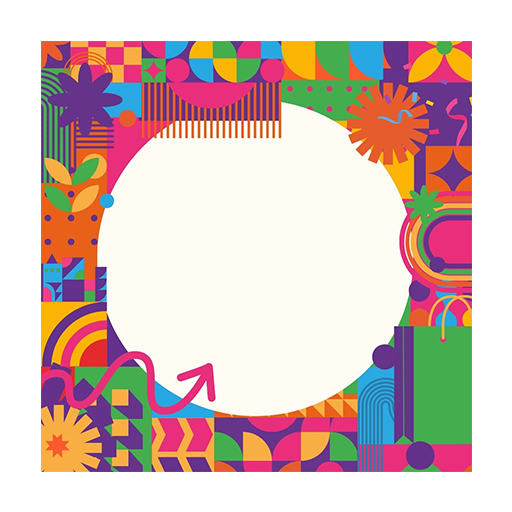
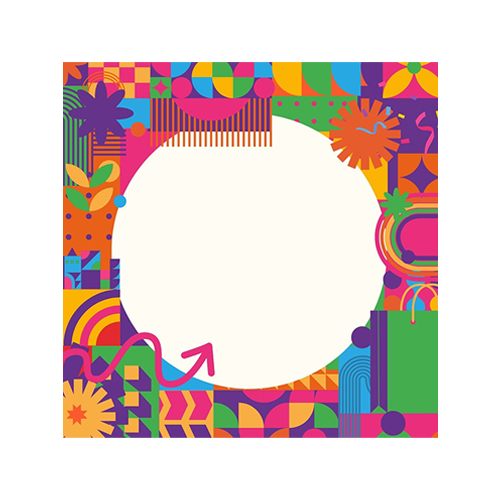
Background Image button functionality

diff --git a/src/app/edit/stamp/[stamp_ID].tsx b/src/app/edit/stamp/[stamp_ID].tsx
@@ -4,7 +4,7 @@ import { StampCardDetails } from '@/assets/classes/stamps';
 import { SafeAreaView } from 'react-native-safe-area-context';
 import { UserProvider } from '@/src/contexts/userContext';
 import { LinearGradient } from 'expo-linear-gradient';
-import { Colors } from '@/src/constants/theme';
+import { Colors, Fonts } from '@/src/constants/theme';
 import Constants from 'expo-constants';
 import { useState } from 'react';
 import * as ImagePicker from 'expo-image-picker';
@@ -13,6 +13,7 @@ import StampCard from '@/src/components/stamps/stampCard';
 
 import { GestureHandlerRootView, ScrollView } from "react-native-gesture-handler";
 import ColorPicker, { Swatches, Preview, ColorFormatsObject, Panel3, BrightnessSlider } from "reanimated-color-picker";
+import { Trash, Upload } from 'lucide-react-native';
 
 
 export default function EditStampScreen() {
@@ -63,6 +64,10 @@ export default function EditStampScreen() {
     }
   };
 
+  const removeImage = async () => {
+    setBgImageLink(undefined);
+  }
+
   const handleSaveToFirebase = async () => {
     if (!dynamicStampCard) return;
     
@@ -87,8 +92,11 @@ export default function EditStampScreen() {
 
       console.log("Ready to save to Firestore:", finalStampDetails);
       
-      // Execute your Firestore update here:
-      const response = await stampService.updateStamp(finalStampDetails);
+      // executing the firebase update, changes parameters on whether or not the bg Image has changed (deletes the old stamp image if there is a new one to save space in the storage)
+      const response = 
+        (finalBgImageUrl === stampCard.stampCard_configs.bgImage && stampCard.stampCard_configs.bgImage) ? 
+          await stampService.updateStamp(finalStampDetails) : 
+          await stampService.updateStamp(finalStampDetails, stampCard.stampCard_configs.bgImage);
 
       if (response?.success) {
         alert("Stamp updated successfully!");
@@ -159,15 +167,28 @@ export default function EditStampScreen() {
 
                           {/* Background Image Upload */}
                           <Text style={styles.label}>Background Image</Text>
-                          <TouchableOpacity style={styles.uploadButton} onPress={pickImage}>
-                            <Text style={styles.uploadButtonText}>Upload Image</Text>
-                          </TouchableOpacity>
+                          <View style={styles.imageButtonContainer}>
+                            <TouchableOpacity style={[styles.imageButton, styles.uploadButton]} onPress={pickImage}>
+                              <Upload size={18} color={'#245ae1'} />
+                              <Text style={styles.uploadButtonText}>Upload Image</Text>
+                            </TouchableOpacity>
+
+                            {
+                              bgImageLink && (
+                                <TouchableOpacity style={[styles.imageButton, styles.removeButton]} onPress={removeImage}>
+                                  <Trash size={18} color={'#b61212'} />
+                                  <Text style={styles.removeButtonText}>Remove Image</Text>
+                                </TouchableOpacity>
+                              )
+                            }
+                          </View>
                           
                           {/* Display the selected image if it exists */}
                           { bgImageLink && (
                             <Image 
                               source={{ uri: bgImageLink }} 
                               style={styles.previewImage}
+                              resizeMode='cover'
                             />
                           )}
 
@@ -185,71 +206,87 @@ export default function EditStampScreen() {
 }
 
 const styles = StyleSheet.create({
-    header: {
-        fontSize: 24,
-        fontWeight: 'bold',
-        marginBottom: 20,
-    },
-    formContainer: {
-        marginTop: 10,
-    },
-    cardHolder: {
-        marginBottom: 30,
-        width: '100%',
-        alignItems: 'center',
-    },
-    label: {
-        fontSize: 16,
-        marginBottom: 5,
-        fontWeight: '600',
-        color: '#333'
-    },
-    input: {
-        width: '100%',
-        backgroundColor: '#fff',
-        borderWidth: 1,
-        borderColor: '#ccc',
-        padding: 12,
-        borderRadius: 8,
-        marginBottom: 15,
-        fontSize: 16,
-    },
-    uploadButton: {
-        backgroundColor: '#eee',
-        padding: 12,
-        borderRadius: 8,
-        borderWidth: 1,
-        borderColor: '#ccc',
-        alignItems: 'center',
-        marginBottom: 15,
-    },
-    uploadButtonText: {
-        fontSize: 16,
-        color: '#333',
-    },
-    previewImage: {
-        width: '100%',
-        height: 150,
-        borderRadius: 8,
-        resizeMode: 'cover',
-        marginBottom: 15,
-    },
-    titleSection: {
+  header: {
+    fontSize: 24,
+    marginBottom: 20,
+    alignSelf: 'center',
+    fontFamily: Fonts.Montserrat,
+    color: Colors.outlets.blue,
+  },
+  formContainer: {
+      marginTop: 10,
+  },
+  cardHolder: {
+      marginBottom: 30,
       width: '100%',
-      alignItems: 'flex-start'
-    },
-    bgColorSection: {
+      alignItems: 'center',
+  },
+  label: {
+      fontSize: 16,
+      marginBottom: 5,
+      fontWeight: '600',
+      color: '#333'
+  },
+  input: {
       width: '100%',
-      alignItems: 'center'
-    },
-    panelAndBar: {
+      backgroundColor: '#fff',
+      borderWidth: 1,
+      borderColor: '#ccc',
+      padding: 12,
+      borderRadius: 8,
+      marginBottom: 15,
+      fontSize: 16,
+  },
+  imageButton: {
+    flex: 1,
+    padding: 12,
+    borderRadius: 12,
+    borderWidth: 1,
+    alignItems: 'center',
+    marginBottom: 15,
+    flexDirection: 'row',
+    justifyContent: 'center',
+    gap: 6
+  },
+  uploadButton: {
+      backgroundColor: `${Colors.outlets.blue}${50}`,
+      borderColor: Colors.outlets.blue,
+  },
+  uploadButtonText: {
+      fontSize: 16,
+      color: '#245ae1',
+  },
+  removeButton: {
+    backgroundColor: `${Colors.outlets.red}${50}`,
+    borderColor: Colors.outlets.red,
+  },
+  removeButtonText: {
+    fontSize: 16,
+    color: '#b61212',
+  },
+  previewImage: {
       width: '100%',
-      height: 250,
-      flexDirection: 'row',
-      gap: 18,
-      justifyContent: 'center',
-      marginVertical: 15,
-    },
+      height: 150,
+      borderRadius: 8,
+      resizeMode: 'cover',
+      marginBottom: 15,
+  },
+  titleSection: {
+    width: '100%',
+    alignItems: 'flex-start'
+  },
+  bgColorSection: {
+    width: '100%',
+    alignItems: 'center'
+  },
+  panelAndBar: {
+    width: '100%',
+    height: 250,
+    flexDirection: 'row',
+    gap: 18,
+    justifyContent: 'center',
+    marginVertical: 15,
+  },
   swatchesContainer: {
     flexDirection: 'row',
     flexWrap: 'wrap',
@@ -263,5 +300,10 @@ const styles = StyleSheet.create({
     borderRadius: 999,
     marginBottom: '2.5%',
     transform: [{ scale: 0.75 }]
-  }
+  },
+  imageButtonContainer: {
+    flex: 1,
+    flexDirection: 'row',
+    gap: 8
+  },
 });

diff --git a/src/services/stampService.ts b/src/services/stampService.ts
@@ -157,7 +157,7 @@ export const stampService = {
         }
     },
 
-    async updateStamp(s: StampCardDetails) {
+    async updateStamp(s: StampCardDetails, prevImage?: string | null) {
         const user = auth.currentUser;
         if (user && s.owner_ID === user.uid && s.id !== undefined) {
             try {
@@ -165,6 +165,19 @@ export const stampService = {
 
                 const updateData = { ...s };
                 delete updateData.id; // so that the docu id doesnt go inside the fields
+
+                // to delete previous image
+                if (prevImage) {
+                    const storage = getStorage();
+                    const imageRef = ref(storage, prevImage);
+
+                    try {
+                        await deleteObject(imageRef);
+                        console.log("Background image successfully deleted!");
+                    } catch (imgError) {
+                        console.error("Error deleting background image: ", imgError);
+                    }
+                }
 
                 await updateDoc(docRef, updateData);
 

diff --git a/src/app/(misc)/createAcc.tsx b/src/app/(misc)/createAcc.tsx
@@ -362,6 +362,7 @@ export default function CreateAcc() {
                         profile_img_url={profilePic || ''}
                         birth_date={birthdayText}
                         card_background_color={cardColor}
+                        stamp_bank={0}
                     />
 
                     <View style={[styles.innerFormContainer, { gap: 10 }]}>
